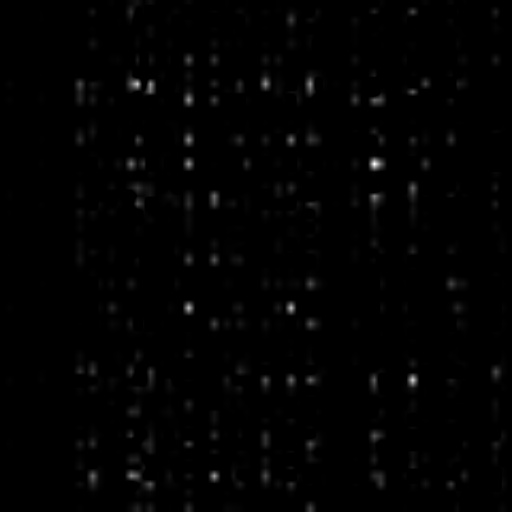
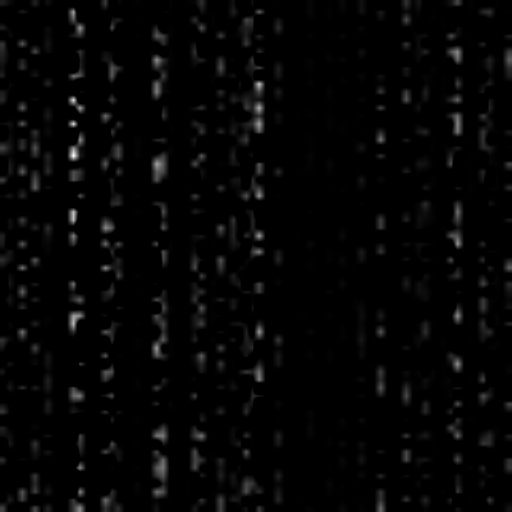
more work on gradcam..

diff --git a/gradcam.py b/gradcam.py
@@ -55,21 +55,25 @@ def grad_cam(prob, category_index, layer_name, sess, feed_dict, nb_classes = 2):
     """
     loss = tf.multiply(prob, tf.one_hot([category_index], nb_classes))
     reduced_loss = tf.reduce_sum(loss[0])
-    conv_output = sess.graph.get_tensor_by_name(layer_name + ':0')
-    print('conv_output.shape:', conv_output.shape)
-    grads = tf.gradients(reduced_loss, conv_output)[0] # d loss / d conv
+    conv_layer = sess.graph.get_tensor_by_name(layer_name + ':0')
+    conv_layer_out = sess.graph.get_tensor_by_name('last_layer' + ':0')
+    # print('conv_layer.shape:', conv_layer.shape)
+    # print('conv_layer_out.shape:', conv_layer_out.shape)
+    grads = tf.gradients(reduced_loss, conv_layer)[0] # d loss / d conv
 
-    output, grads_val = sess.run([conv_output, grads], feed_dict=feed_dict)
-    print('output (conv layer):', output.shape)
+    conv_layer_val, grads_val, conv_layer_out_val = sess.run([conv_layer, grads, conv_layer_out], feed_dict=feed_dict)
+    print('conv_layer.shape:', conv_layer_val.shape)
+    print('conv_layer_out_val.shape:', conv_layer_out_val.shape)
     print('grads_val (grads of loss/conv_layer):', grads_val.shape)
     
-    weights = np.mean(grads_val, axis=(1, 2)) # average pooling
+    grads_mean = np.mean(grads_val, axis=(1, 2)) # average pooling
 
     # cams = np.sum(weights * output, axis=3)
     # cams = np.sum(grads_val * output, axis=3)
-    cams = grads_val * output
-    # return cams
-    return cams[0,0,:,:, np.newaxis]
+    # cams = grads_mean * output
+    cams = conv_layer_out_val
+    return cams
+    # return cams[0,0,:,:, np.newaxis]
     # return output[0,0,:,:, np.newaxis]
 
 
@@ -137,14 +141,14 @@ def main():
     batch_imgs = cv2.imread(args.input_image)[:, :, [0]]
     batch_labs = [0]
 
-    print('batch_imgs.size (original)',batch_imgs.shape)
+    # print('batch_imgs.size (original)',batch_imgs.shape)
 
     # batch_imgs, batch_labs = augment(batch_imgs, batch_labs, size)
     batch_imgs = cv2.resize(batch_imgs, (size, size))[..., np.newaxis]
 
     cv2.imwrite('images0.jpg', batch_imgs)
 
-    print('batch_imgs.size', batch_imgs.shape)
+    # print('batch_imgs.size', batch_imgs.shape)
 
     graph = tf.Graph()
     sess = tf.InteractiveSession(graph=graph)

diff --git a/net.py b/net.py
@@ -64,8 +64,11 @@ def generate_network(size=512, width=1):
     # last convolutional block without pooling
     output = generate_convolutional_block(output, filters=80*width, pool=False)
 
+    output = tf.identity(output, name="last_layer")
+
     # Global average pooling
     output = tf.reduce_mean(output, axis=[1,2], name='gap')
+
     # output = tf.layers.flatten(output, name='flatten')
 
     # Dense layer for the output, with softmax activation
